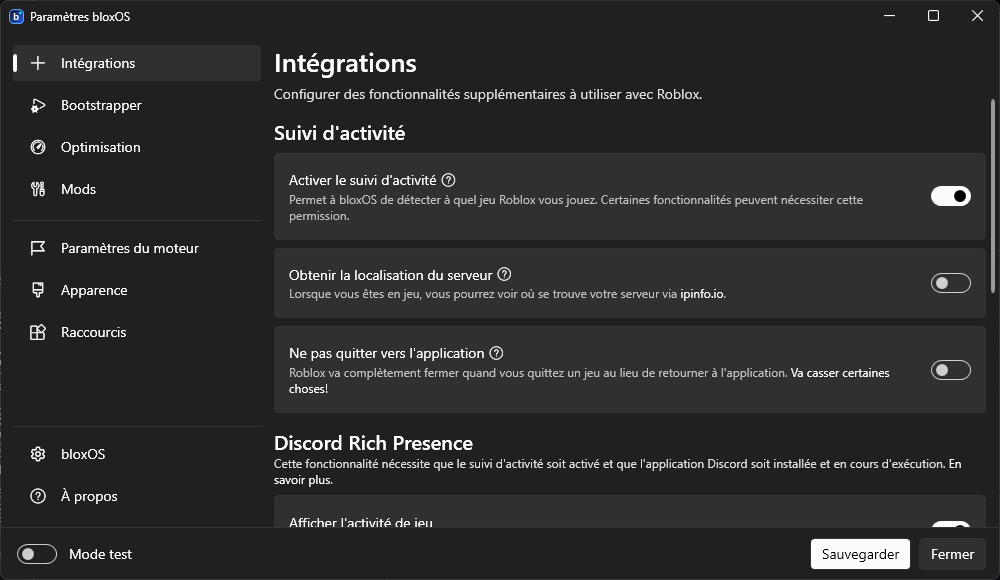
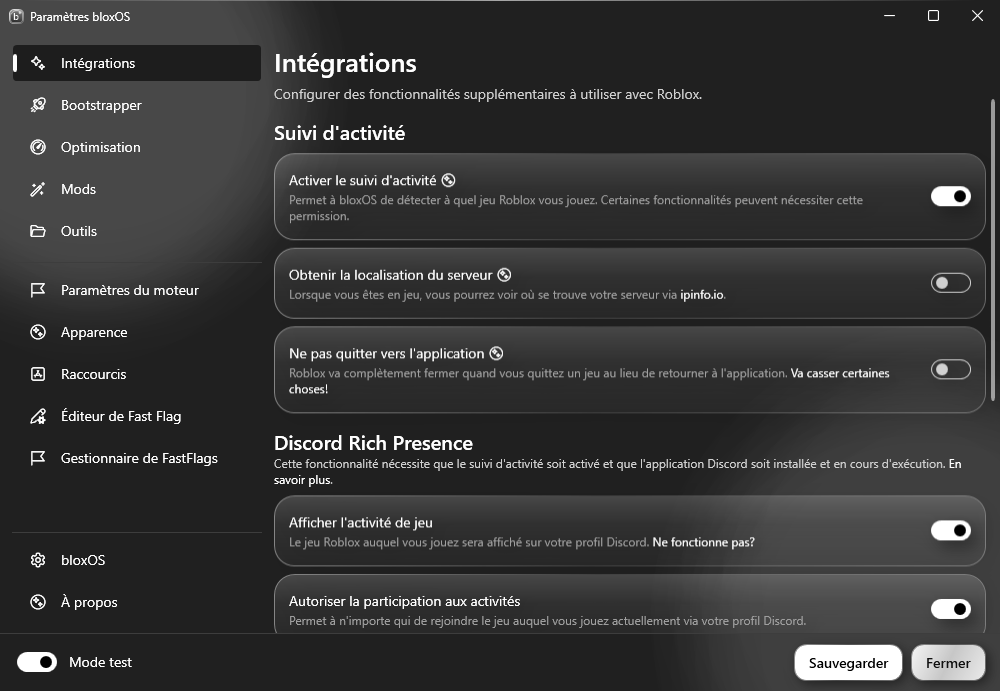
Polish public repository presentation

diff --git a/index.html b/index.html
@@ -4,7 +4,7 @@
   <meta charset="utf-8">
   <meta name="viewport" content="width=device-width, initial-scale=1">
   <title>bloxOS — Téléchargement</title>
-  <meta name="description" content="Télécharge bloxOS, un bootstrapper Roblox propre et personnalisable pour Windows.">
+  <meta name="description" content="Télécharge bloxOS, un lanceur Windows propre, rapide et entièrement personnalisable.">
   <style>
     :root {
       --bg: #121419;
@@ -132,9 +132,9 @@
 <body>
   <main class="page">
     <section class="hero">
-      <img class="logo" src="assets/logo.png" alt="Logo bloxOS">
+      <img class="logo" src="assets/logo-light.png" alt="Logo bloxOS">
       <h1>bloxOS</h1>
-      <p class="subtitle">Un bootstrapper Roblox propre, rapide et personnalisable pour Windows.</p>
+      <p class="subtitle">Un lanceur propre, rapide et entièrement personnalisable pour Windows.</p>
       <a class="download" href="https://github.com/morveuxfr/bloxOS/releases/download/v1.0.0/bloxOS-setup.exe">Télécharger l'EXE</a>
       <div class="meta">Windows x64 · installation automatique · aucun .NET à installer</div>
     </section>
@@ -142,19 +142,30 @@
     <section class="grid">
       <article class="card">
         <h2>Installation simple</h2>
-        <p>Télécharge <strong>bloxOS-setup.exe</strong> puis lance-le. Le setup installe bloxOS automatiquement dans <strong>%LOCALAPPDATA%\bloxOS</strong>, crée les raccourcis et ouvre l'application. Le hash SHA256 est dans <a class="inline" href="SHA256SUMS.txt">SHA256SUMS.txt</a>.</p>
+        <p>Télécharge <strong>bloxOS-setup.exe</strong> puis lance-le. Le setup installe bloxOS dans <strong>%LOCALAPPDATA%\bloxOS</strong>, crée les raccourcis et ouvre l'application. Le hash SHA256 est dans <a class="inline" href="SHA256SUMS.txt">SHA256SUMS.txt</a>.</p>
       </article>
 
       <article class="card">
-        <h2>Interface propre</h2>
-        <p>Un menu de lancement clair et des paramètres organisés avec un thème sombre gris graphite.</p>
+        <h2>Interface soignée</h2>
+        <p>Un menu de lancement clair, des paramètres compacts et une navigation pensée pour rester lisible.</p>
+      </article>
+
+      <article class="card">
+        <h2>Thèmes et FastFlags</h2>
+        <p>Sept thèmes sobres, un éditeur FastFlags, un gestionnaire dédié et un preset complet unique.</p>
+      </article>
+
+      <article class="card">
+        <h2>Mods et Discord</h2>
+        <p>Curseurs, police, badge cosmétique, sons personnalisés et Rich Presence contextuelle avec le logo bloxOS.</p>
       </article>
     </section>
 
     <section class="card" style="margin-top:18px;">
       <h2>Aperçu</h2>
-      <img class="shot" src="assets/menu.png" alt="Menu bloxOS">
+      <img class="shot" src="assets/launcher.png" alt="Lanceur bloxOS">
       <img class="shot" src="assets/settings.png" alt="Paramètres bloxOS">
+      <img class="shot" src="assets/mods.png" alt="Mods bloxOS">
     </section>
 
     <p class="meta" style="text-align:center;">Code source privé. Page publique réservée au téléchargement.</p>

diff --git a/README.md b/README.md
@@ -1,53 +1,70 @@
-<p align="center">
-  <img src="assets/logo.png" width="180" alt="bloxOS logo">
-</p>
+<div align="center">
 
-<h1 align="center">bloxOS</h1>
+<img src="assets/social-preview.png" alt="bloxOS" width="100%" />
 
-<p align="center">
-  Un bootstrapper Roblox propre, rapide et personnalisable pour Windows.
-</p>
+# bloxOS
 
-<p align="center">
-  <a href="https://github.com/morveuxfr/bloxOS/releases/download/v1.0.0/bloxOS-setup.exe"><img src="https://img.shields.io/badge/T%C3%A9l%C3%A9charger-EXE-9CA3AF?style=for-the-badge&logo=windows" alt="Télécharger bloxOS"></a>
-</p>
+**Un lanceur propre, rapide et entièrement personnalisable pour Windows.**
 
-<p align="center">
-  <a href="https://github.com/morveuxfr/bloxOS/releases/latest"><img src="https://img.shields.io/github/v/release/morveuxfr/bloxOS?color=9CA3AF&label=version"></a>
-  <a href="https://github.com/morveuxfr/bloxOS/releases/latest"><img src="https://img.shields.io/github/downloads/morveuxfr/bloxOS/latest/total?color=9CA3AF&label=downloads"></a>
-  <a href="https://discord.gg/zS7VTNGVS"><img src="https://img.shields.io/badge/discord-rejoindre-5865F2?logo=discord&logoColor=white"></a>
-</p>
+[`Télécharger l'EXE`](https://github.com/morveuxfr/bloxOS/releases/download/v1.0.0/bloxOS-setup.exe) · [Dernière version](https://github.com/morveuxfr/bloxOS/releases/latest) · [Discord](https://discord.gg/zS7VTNGVS)
+
+![Version](https://img.shields.io/github/v/release/morveuxfr/bloxOS?color=111827&label=version)
+![Downloads](https://img.shields.io/github/downloads/morveuxfr/bloxOS/latest/total?color=111827&label=downloads)
+![Windows](https://img.shields.io/badge/Windows-10%20%2F%2011-111827?logo=windows&logoColor=white)
+![License](https://img.shields.io/badge/License-MIT-111827)
+
+</div>
+
+---
+
+## Pourquoi bloxOS
+
+bloxOS prend le meilleur d'un bootstrapper moderne et le rend réellement agréable à utiliser : interface nette, démarrage rapide, thèmes sobres, FastFlags maîtrisés et présence Discord qui ressemble enfin au projet.
+
+<div align="center">
+  <img src="assets/launcher.png" alt="Lanceur bloxOS" width="780" />
+</div>
+
+<table>
+  <tr>
+    <td width="50%" align="center"><b>Paramètres</b><br /><img src="assets/settings.png" alt="Paramètres bloxOS" width="100%" /></td>
+    <td width="50%" align="center"><b>Mods</b><br /><img src="assets/mods.png" alt="Mods bloxOS" width="100%" /></td>
+  </tr>
+</table>
+
+---
+
+## Fonctionnalités
+
+| | |
+| --- | --- |
+| Interface premium | Design sombre et clair, panneaux compacts, navigation sans chevauchement |
+| Thèmes | Light, Dark, Graphite, Ocean, Emerald, Violet et Ember |
+| FastFlags | Preset complet, éditeur, gestionnaire et liste autorisée stricte |
+| Performance | Priorité élevée, mode faible configuration, optimisations globales |
+| Mods locaux | Curseurs, police, badge cosmétique, sons d'impact, musique, impacts silencieux |
+| Discord RPC | État lanceur, paramètres, outils, À propos, FastFlags, jeu et invitation |
+| Outils | Journaux, dossier d'installation, actions rapides et diagnostics |
+| Installation | Setup autonome, aucun .NET à installer |
 
 ---
 
 ## Téléchargement
 
-Télécharge directement [`bloxOS-setup.exe`](https://github.com/morveuxfr/bloxOS/releases/download/v1.0.0/bloxOS-setup.exe) puis lance-le : l'installation se fait automatiquement.
+Télécharge directement [`bloxOS-setup.exe`](https://github.com/morveuxfr/bloxOS/releases/download/v1.0.0/bloxOS-setup.exe) puis lance-le.
 
-Le setup installe bloxOS dans `%LOCALAPPDATA%\bloxOS`, crée les raccourcis puis lance l'application.
+Le setup :
 
-Le fichier [`SHA256SUMS.txt`](SHA256SUMS.txt) permet de vérifier le setup.
+1. installe bloxOS dans `%LOCALAPPDATA%\bloxOS` ;
+2. crée les raccourcis nécessaires ;
+3. lance automatiquement l'application.
 
-## Aperçu
+Le fichier [`SHA256SUMS.txt`](SHA256SUMS.txt) permet de vérifier l'intégrité du setup.
 
-<p align="center">
-  <img src="assets/menu.png" width="620" alt="Menu bloxOS">
-</p>
-
-<p align="center">
-  <img src="assets/settings.png" width="900" alt="Paramètres bloxOS">
-</p>
-
-## Ce que contient bloxOS
-
-- Lancement direct de Roblox ou Roblox Studio
-- Paramètres avec thème gris graphite
-- Gestionnaire FastFlags dédié
-- Discord Rich Presence avec logo bloxOS
-- Mode faible configuration et priorité Roblox élevée
+---
 
 ## Discord
 
-Rejoins le Discord pour les mises à jour et l'aide : [discord.gg/zS7VTNGVS](https://discord.gg/zS7VTNGVS)
+Rejoins le serveur pour les mises à jour, l'aide et les annonces : [discord.gg/zS7VTNGVS](https://discord.gg/zS7VTNGVS)
 
-> Le code source est privé. Ce dépôt contient uniquement l'application compilée et sa présentation.
+> Le code source est privé. Ce dépôt contient uniquement l'application compilée, le setup et sa présentation.
